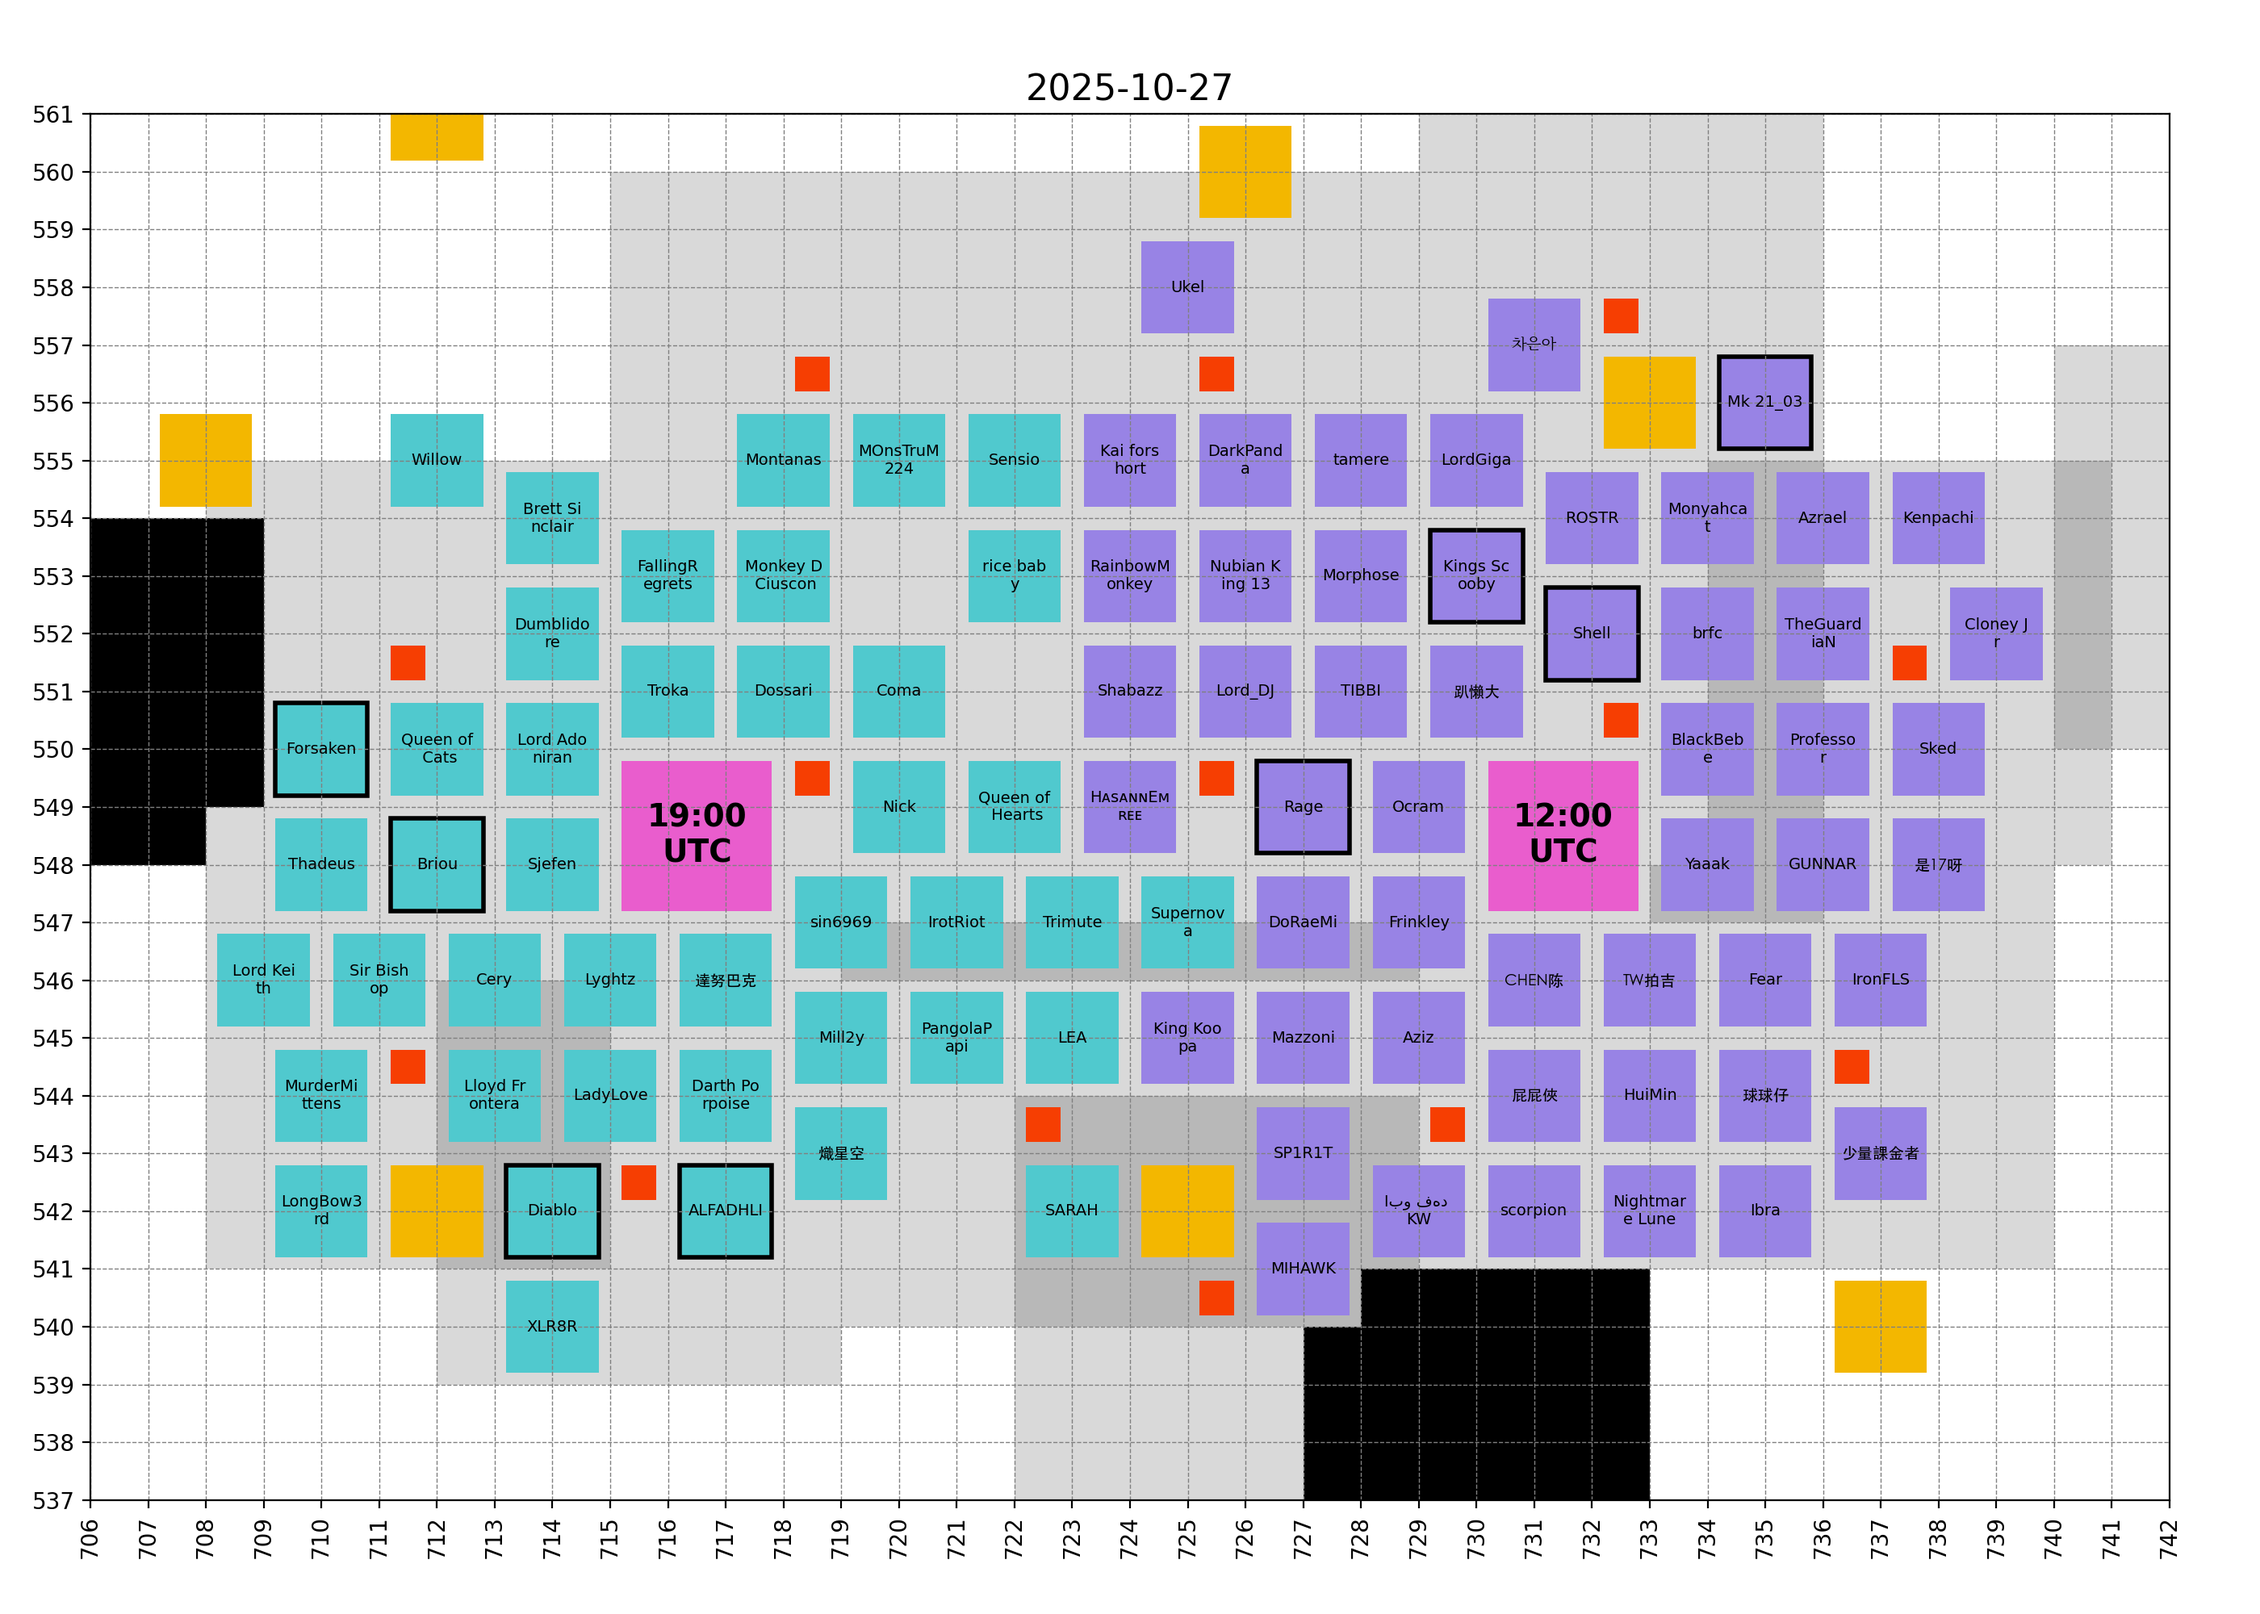
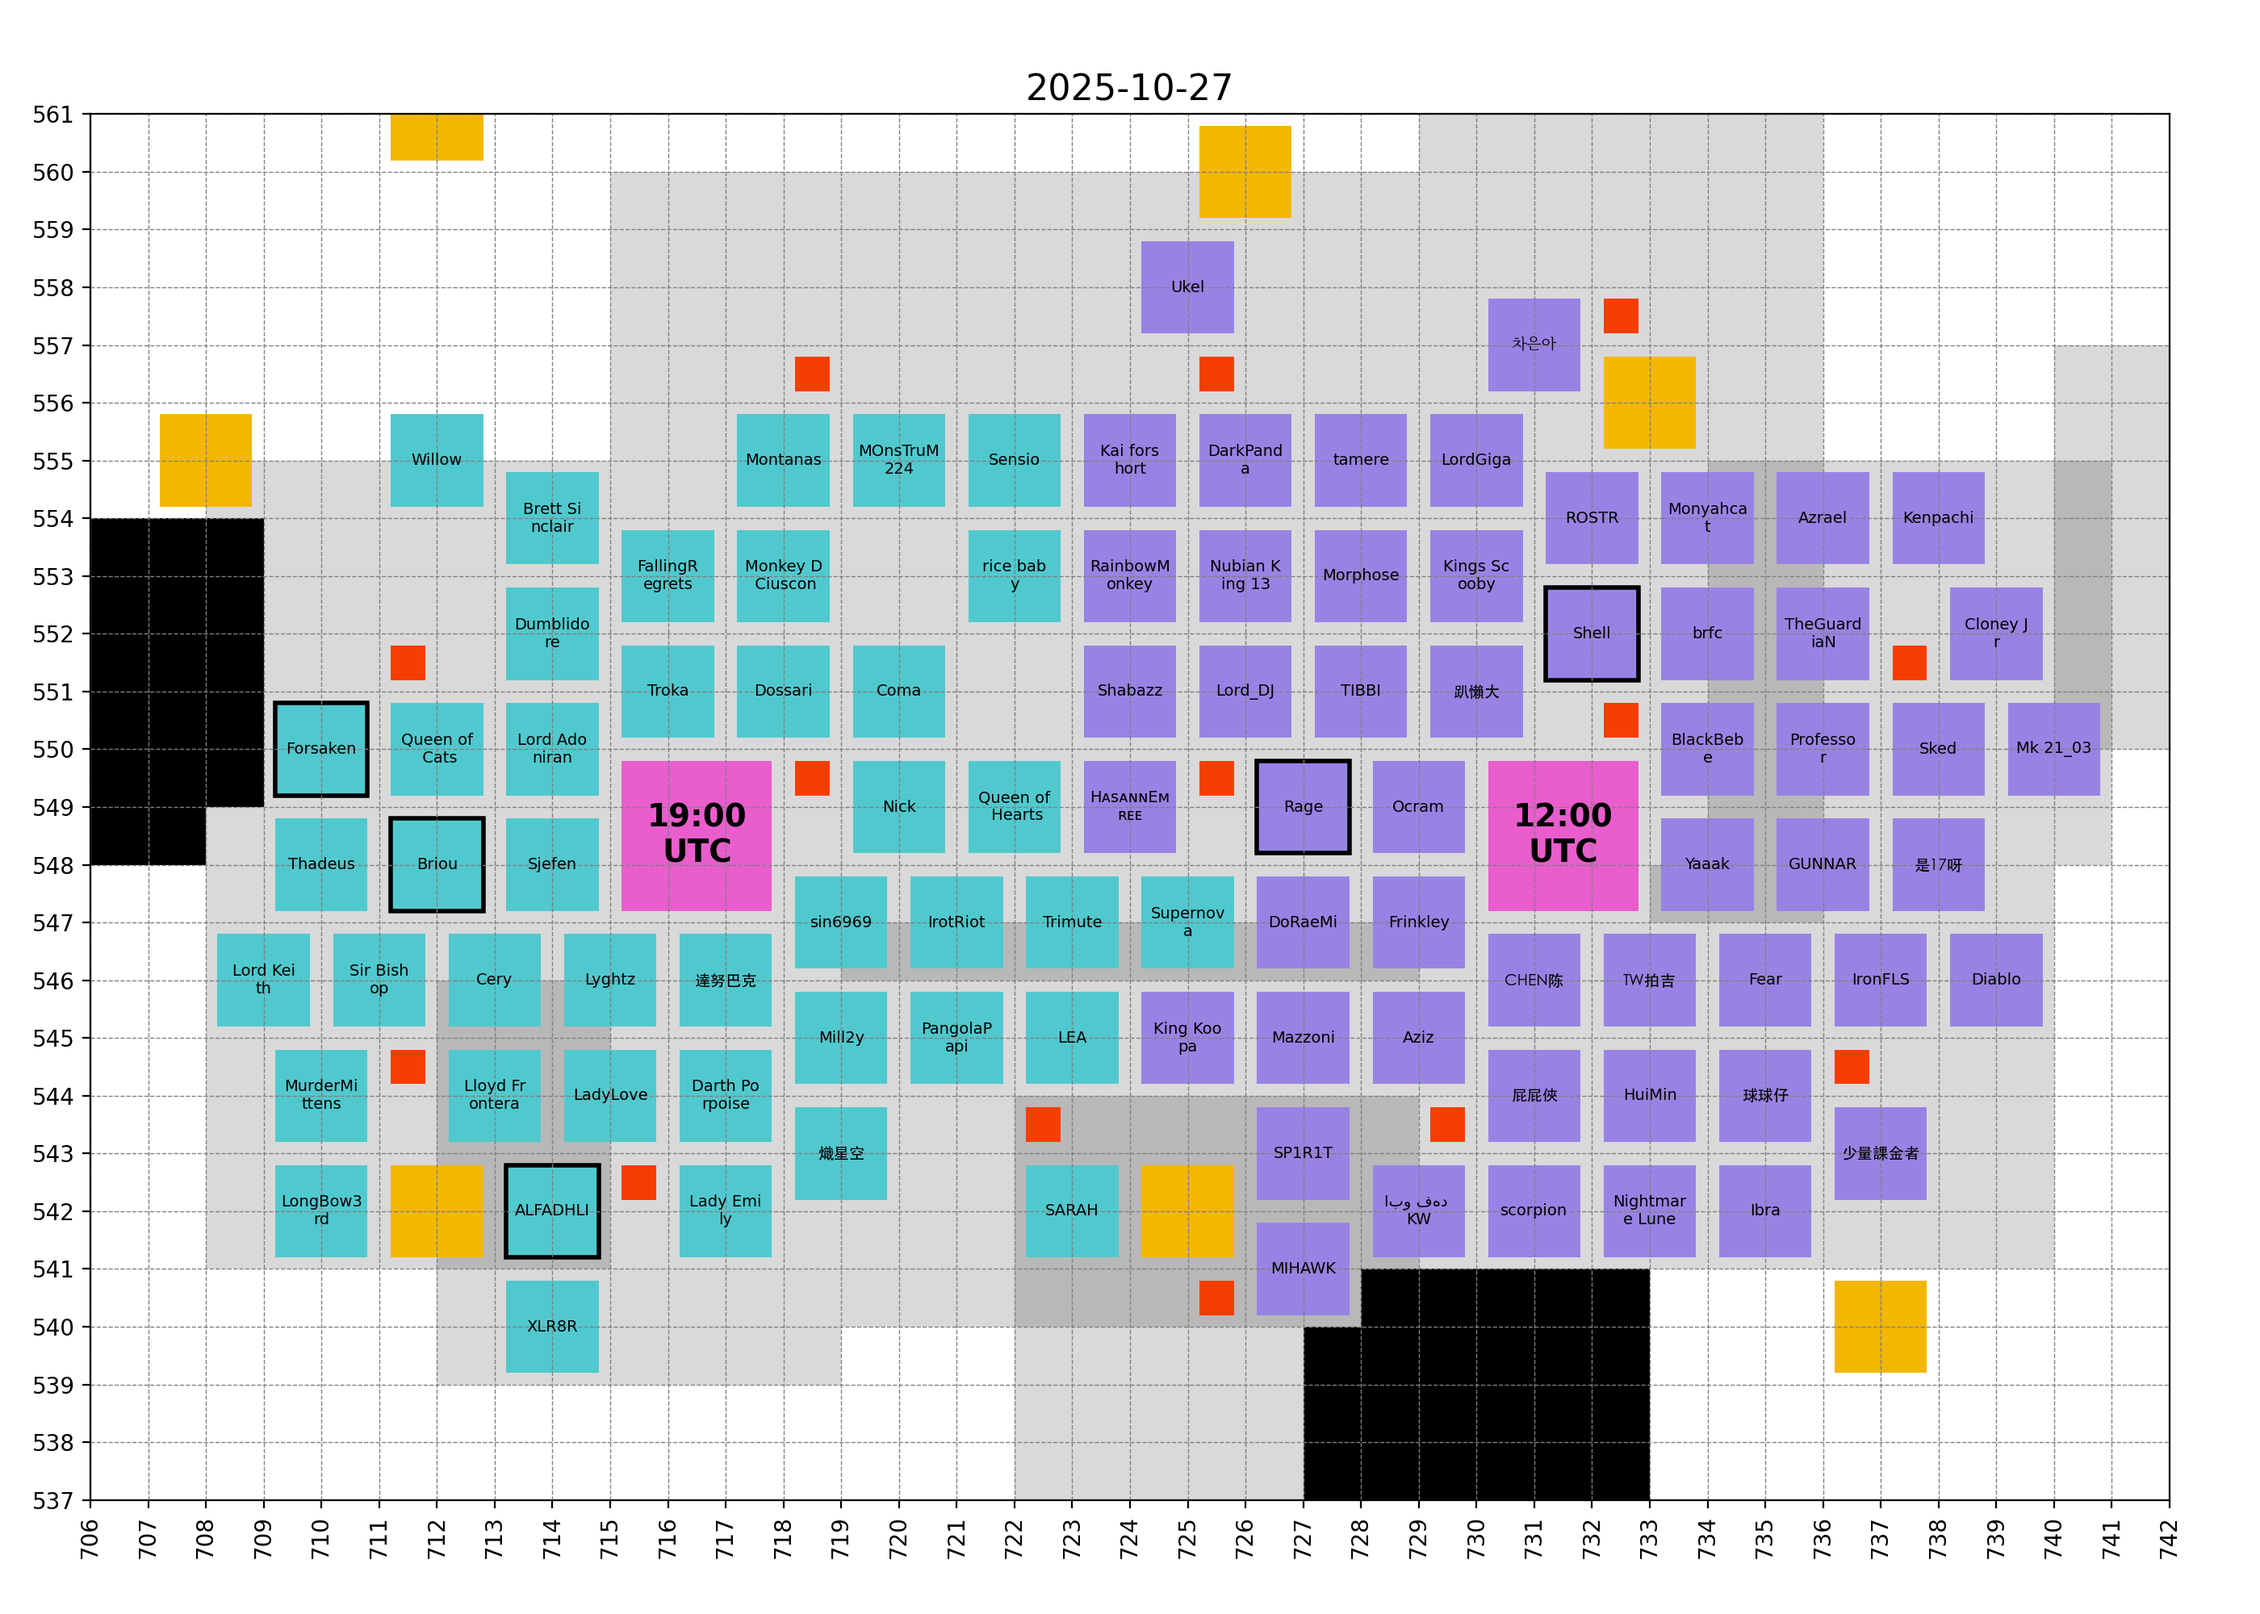
chore: auto updates

diff --git a/hive/README.md b/hive/README.md
@@ -28,7 +28,7 @@ Cities locations as of 2025-10-27:
 
 | Name | X | Y |
 | --- | --- | --- |
-| ALFADHLI | 716 | 541 |
+| ALFADHLI | 713 | 541 |
 | Aziz | 728 | 544 |
 | Azrael | 735 | 553 |
 | BlackBebe | 733 | 549 |
@@ -40,7 +40,7 @@ Cities locations as of 2025-10-27:
 | Coma | 719 | 550 |
 | DarkPanda | 725 | 554 |
 | Darth Porpoise | 716 | 543 |
-| Diablo | 713 | 541 |
+| Diablo | 738 | 545 |
 | DoRaeMi | 726 | 546 |
 | Dossari | 717 | 550 |
 | Dumblidore | 713 | 551 |
@@ -59,6 +59,7 @@ Cities locations as of 2025-10-27:
 | King Koopa | 724 | 544 |
 | Kings Scooby | 729 | 552 |
 | LEA | 722 | 544 |
+| Lady Emily | 716 | 541 |
 | LadyLove | 714 | 543 |
 | Lloyd Frontera | 712 | 543 |
 | LongBow3rd | 709 | 541 |
@@ -71,7 +72,7 @@ Cities locations as of 2025-10-27:
 | MOnsTruM224 | 719 | 554 |
 | Mazzoni | 726 | 544 |
 | Mill2y | 718 | 544 |
-| Mk 21_03 | 734 | 555 |
+| Mk 21_03 | 739 | 549 |
 | Monkey D Ciuscon | 717 | 552 |
 | Montanas | 717 | 554 |
 | Monyahcat | 733 | 553 |
